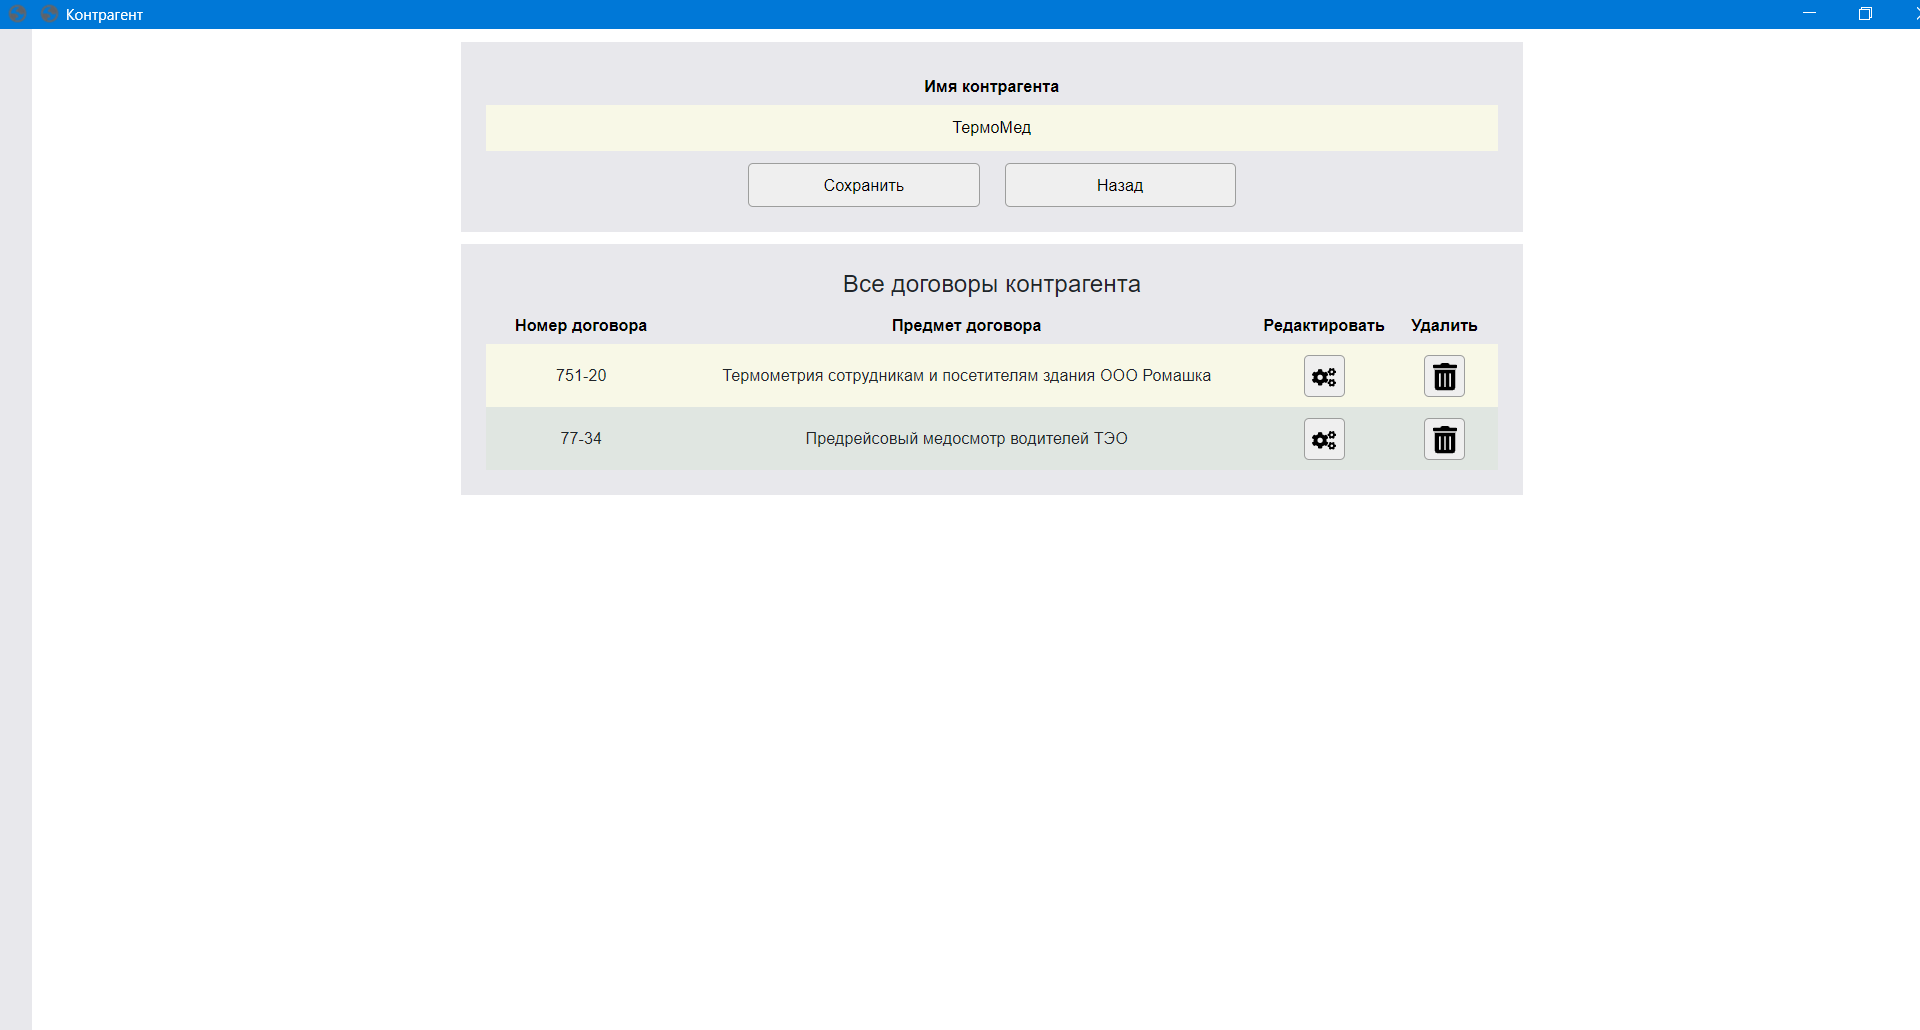
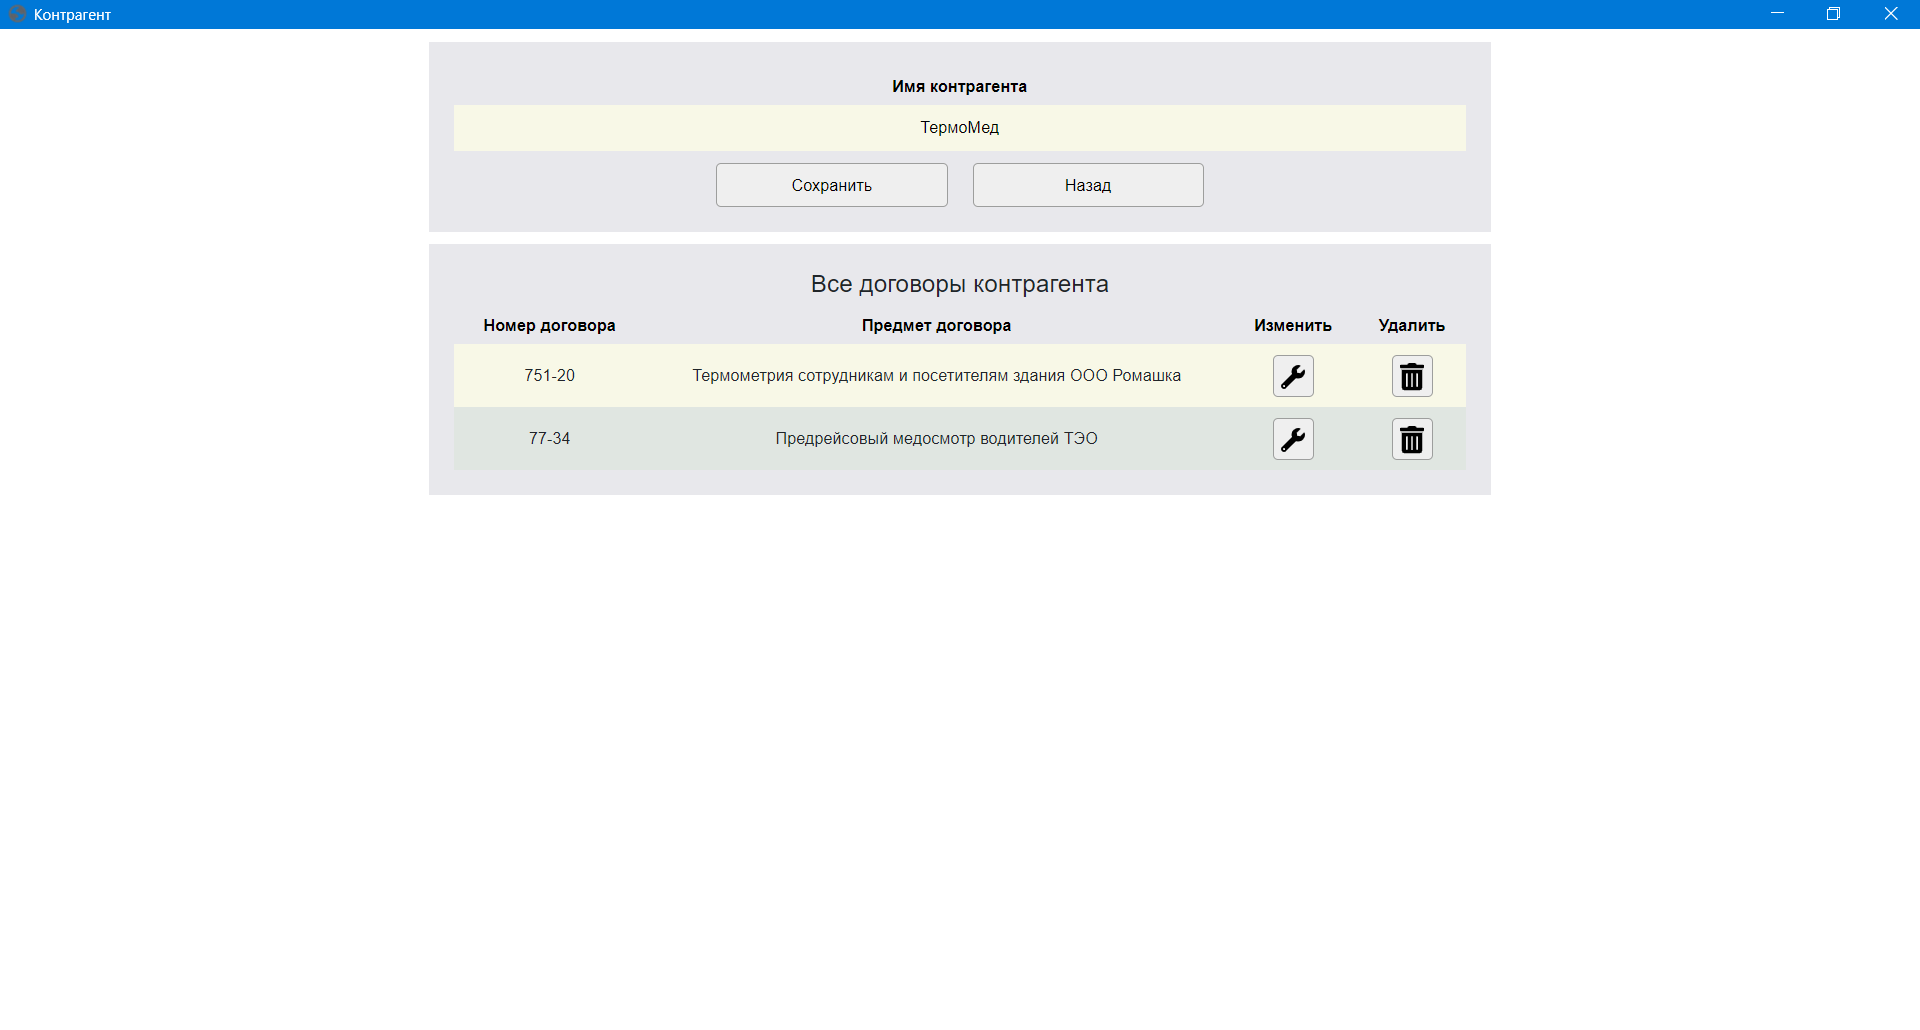
images fixed

diff --git a/contracts/web/agent_detail.html b/contracts/web/agent_detail.html
@@ -38,7 +38,7 @@
                 <tr>
                     <th>Номер договора</th>
                     <th>Предмет договора</th>
-                    <th>Редактировать</th>
+                    <th>Изменить</th>
                     <th>Удалить</th>
                 </tr>
             </table>

diff --git a/contracts/web/agents_list.html b/contracts/web/agents_list.html
@@ -19,7 +19,7 @@
                     <tr>
                         <th>No.</th>
                         <th>Имя контрагента</th>
-                        <th>подробнее</th>
+                        <th>Подробнее</th>
                         <th>Удалить</th>
                     </tr>
                 </table>

diff --git a/contracts/web/js/agent_detail.js b/contracts/web/js/agent_detail.js
@@ -49,7 +49,7 @@ function print_agent_data(data){
 
         options_TD.style = 'width: 105px; height: 50px;'
         btn_options.style = 'height: 33px; width: 33px;'
-        img_btn_options.src = 'img/cogs.svg';
+        img_btn_options.src = 'img/repair.svg';
 
         new_line.append(options_TD);
         options_TD.append(btn_options);
